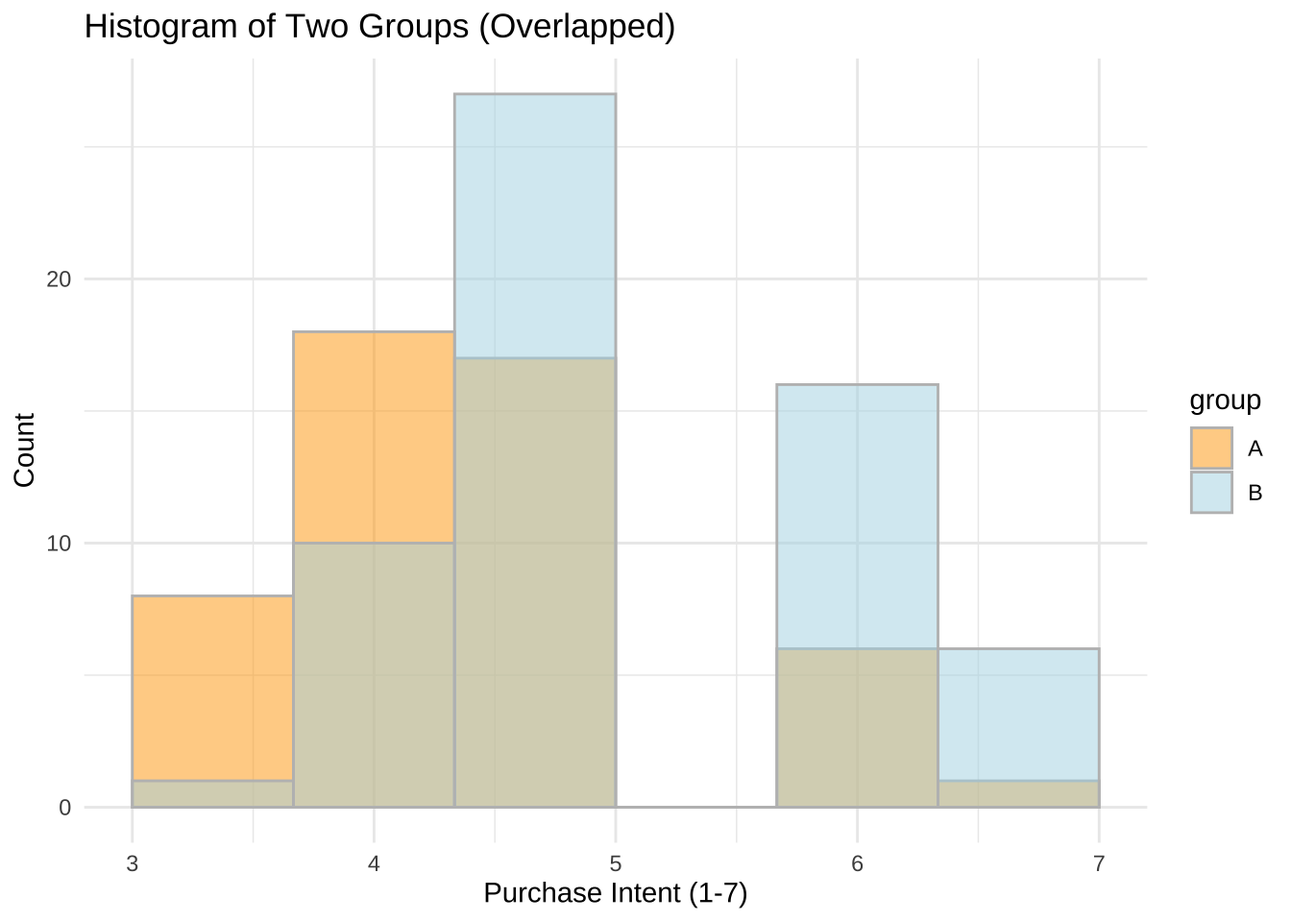
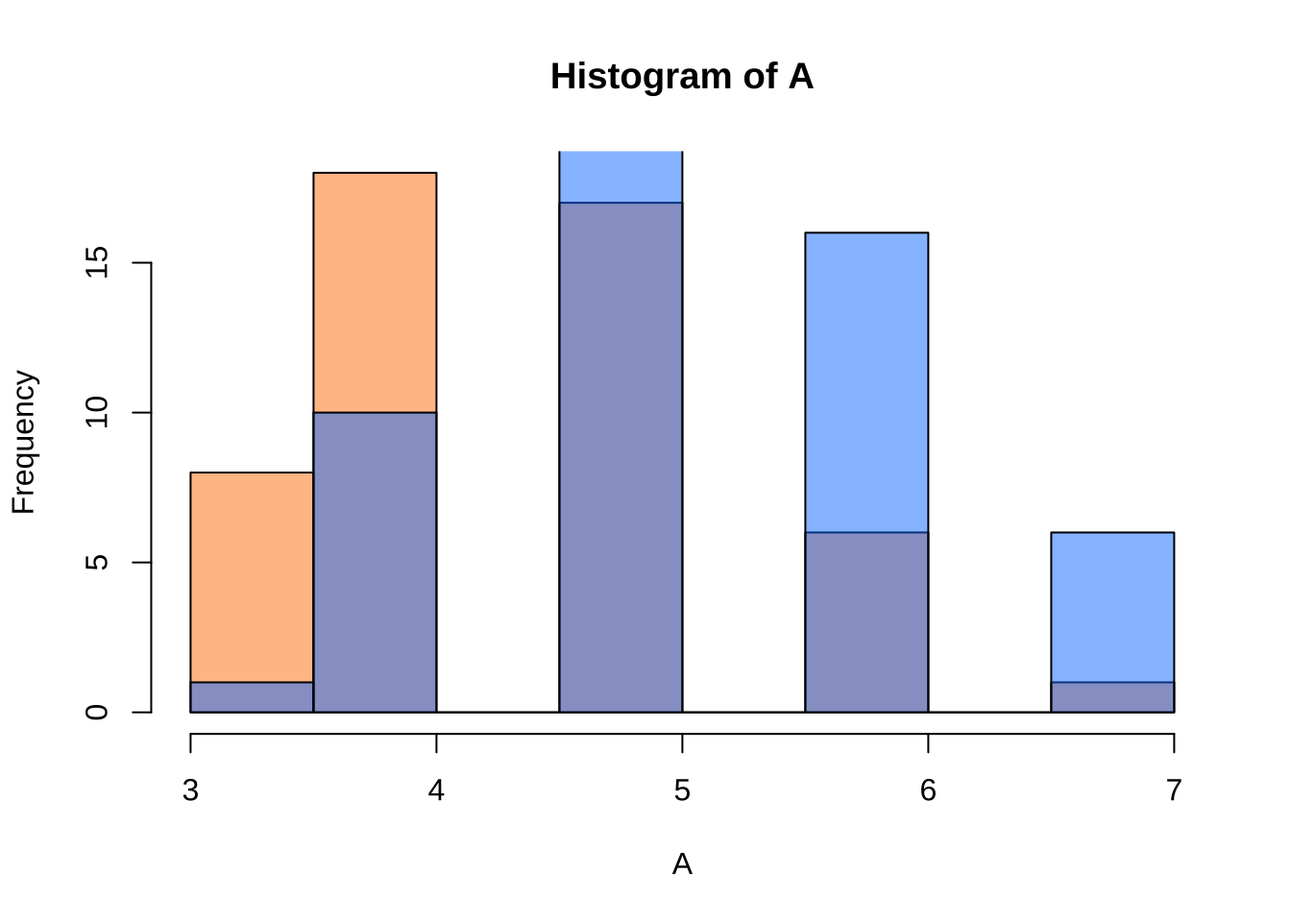
amend 020(rev)

diff --git a/仮説検定.html b/仮説検定.html
@@ -221,7 +221,7 @@ code span.wa { color: #60a0b0; font-weight: bold; font-style: italic; } /* Warni
             <section class="normal" id="section-">
 <div id="仮説検定" class="section level1 hasAnchor" number="3">
 <h1><span class="header-section-number">3</span> 仮説検定<a href="仮説検定.html#仮説検定" class="anchor-section" aria-label="Anchor link to header"></a></h1>
-<p>本章では, 仮説検定の中でも, 実務において, 恐らく最も良く用いると思われる,</p>
+<p>本章では, 仮説検定の中でも, 実務において良く用いられる,</p>
 <ul>
 <li>平均値の差の検定</li>
 <li>独立性の検定</li>
@@ -245,7 +245,7 @@ code span.wa { color: #60a0b0; font-weight: bold; font-style: italic; } /* Warni
 <div id="平均値の差の検定-ペア検定" class="section level3 unnumbered hasAnchor">
 <h3>平均値の差の検定 (ペア検定)<a href="仮説検定.html#平均値の差の検定-ペア検定" class="anchor-section" aria-label="Anchor link to header"></a></h3>
 <p>ペア検定を実施する場合には, <code>t.test()</code>の引数<code>paired</code>を真 (<code>TRUE</code>, または<code>T</code>)
-に設定する. デフォルトは,<code>paired = F</code>である (ペア検定ではない).</p>
+に設定する. デフォルトは,<code>paired = FALSE</code> (<code>F</code>) である (ペア検定ではない).</p>
 <p>ここでは, Rにデフォルトで収録されているデータセット<code>sleep</code>を用いる.</p>
 <div id="データセット-sleep" class="section level4 unnumbered hasAnchor">
 <h4>データセット: sleep<a href="仮説検定.html#データセット-sleep" class="anchor-section" aria-label="Anchor link to header"></a></h4>
@@ -270,8 +270,8 @@ code span.wa { color: #60a0b0; font-weight: bold; font-style: italic; } /* Warni
 <span id="cb140-16"><a href="仮説検定.html#cb140-16" tabindex="-1"></a><span class="co">#&gt; 19   4.6     2  9</span></span>
 <span id="cb140-17"><a href="仮説検定.html#cb140-17" tabindex="-1"></a><span class="co">#&gt; 20   3.4     2 10</span></span></code></pre></div>
 <p>最初に, Rへの指示を簡潔にするために, <code>attach(sleep)</code> を実行する. これにより, <code>sleep</code>内に含まれる変数<code>extra</code>,<code>group</code>,<code>ID</code>については,
-それらが<code>sleep</code>の変数であることをその都度教えてなくても, Rは理解できるようになる.
-(Rの”サーチパス”に載せる, と言う)</p>
+それらが<code>sleep</code>の変数であることをその都度教えてなくても, Rは認識できるようになる
+(Rの“サーチパス”に加わる).</p>
 <div class="sourceCode" id="cb141"><pre class="sourceCode r"><code class="sourceCode r"><span id="cb141-1"><a href="仮説検定.html#cb141-1" tabindex="-1"></a><span class="fu">attach</span>(sleep)</span>
 <span id="cb141-2"><a href="仮説検定.html#cb141-2" tabindex="-1"></a><span class="fu">par</span>(<span class="at">mfrow =</span> <span class="fu">c</span>(<span class="dv">1</span>, <span class="dv">2</span>))</span>
 <span id="cb141-3"><a href="仮説検定.html#cb141-3" tabindex="-1"></a><span class="fu">plot</span>(extra); <span class="fu">hist</span>(extra)</span></code></pre></div>
@@ -338,7 +338,7 @@ code span.wa { color: #60a0b0; font-weight: bold; font-style: italic; } /* Warni
 1標本に対する平均値ゼロのt検定として行う.</p>
 <p>すなわち, 帰無仮説<span class="math inline">\(H_0: \mu_1-\mu_2=0\)</span>に対して, 対立仮説は,</p>
 <ul>
-<li>両側検定: <span class="math inline">\(H_1: \mu_1-\mu_2=0\)</span></li>
+<li>両側検定: <span class="math inline">\(H_1: \mu_1-\mu_2 \neq 0\)</span></li>
 <li>片側 (右側) 検定: <span class="math inline">\(H_1: \mu_1-\mu_2&gt;0\)</span></li>
 <li>片側 (左側) 検定: <span class="math inline">\(H_1: \mu_1-\mu_2&lt;0\)</span></li>
 </ul>
@@ -350,7 +350,7 @@ p値は0.002833となり, 1%有意水準 (<span class="math inline">\(\alpha=0.0
 こととなった.</p>
 <p>一方, 対立仮説として, 右側 <span class="math inline">\(H_1: \mu_1-\mu_2&gt;0\)</span> を採用した場合には,
 標本から計算される平均値の差は正の値となることが期待され
-((<span class="math inline">\(\bar{x}_1-\bar{x}_2&gt;0\)</span>)), これは, データセットsleepから計算された値
+(<span class="math inline">\(\bar{x}_1-\bar{x}_2&gt;0\)</span>), これは, データセットsleepから計算された値
 (<span class="math inline">\(-1.58\)</span>) とは明らかに整合的ではない. このことは, 対応するp値が<span class="math inline">\(0.9986\)</span>と
 1に近く, 帰無仮説を棄却できない大きさとなっていることに表れている.</p>
 <!-- #090225ERROR#t.test(extra ~ group, paired = T) # ペア検定 (両側検定 (デフォルト)) -->
@@ -389,7 +389,9 @@ p値は0.002833となり, 1%有意水準 (<span class="math inline">\(\alpha=0.0
 <span id="cb149-13"><a href="仮説検定.html#cb149-13" tabindex="-1"></a><span class="co">#&gt;           1.125316</span></span>
 <span id="cb149-14"><a href="仮説検定.html#cb149-14" tabindex="-1"></a><span class="co"># ※ 省略されることも多い</span></span></code></pre></div>
 <p>その上で, Welch検定か, プール化された分散推定値を用いるt検定を実行する.</p>
-<div class="sourceCode" id="cb150"><pre class="sourceCode r"><code class="sourceCode r"><span id="cb150-1"><a href="仮説検定.html#cb150-1" tabindex="-1"></a><span class="co"># 等分散の場合 ((Pooled variance使用する) t検定)</span></span>
+<p>上の等分散性検定の結果より, 帰無仮説 (2標本の分散は等しい, <span class="math inline">\(\sigma_1^2=\sigma_2^2\)</span>)
+は棄却されないことから (p値<span class="math inline">\(=0.6606\)</span>), 等分散の場合について実行すれば良い.</p>
+<div class="sourceCode" id="cb150"><pre class="sourceCode r"><code class="sourceCode r"><span id="cb150-1"><a href="仮説検定.html#cb150-1" tabindex="-1"></a><span class="co"># 等分散の場合 (Pooled variance使用するt検定)</span></span>
 <span id="cb150-2"><a href="仮説検定.html#cb150-2" tabindex="-1"></a><span class="fu">t.test</span>(purchase_intent <span class="sc">~</span> group, <span class="at">var.equal =</span> T, <span class="at">data =</span> abtest_df)</span>
 <span id="cb150-3"><a href="仮説検定.html#cb150-3" tabindex="-1"></a><span class="co">#&gt; </span></span>
 <span id="cb150-4"><a href="仮説検定.html#cb150-4" tabindex="-1"></a><span class="co">#&gt;  Two Sample t-test</span></span>
@@ -401,102 +403,121 @@ p値は0.002833となり, 1%有意水準 (<span class="math inline">\(\alpha=0.0
 <span id="cb150-10"><a href="仮説検定.html#cb150-10" tabindex="-1"></a><span class="co">#&gt;  -1.1449141 -0.4284192</span></span>
 <span id="cb150-11"><a href="仮説検定.html#cb150-11" tabindex="-1"></a><span class="co">#&gt; sample estimates:</span></span>
 <span id="cb150-12"><a href="仮説検定.html#cb150-12" tabindex="-1"></a><span class="co">#&gt; mean in group A mean in group B </span></span>
-<span id="cb150-13"><a href="仮説検定.html#cb150-13" tabindex="-1"></a><span class="co">#&gt;        4.480000        5.266667</span></span>
-<span id="cb150-14"><a href="仮説検定.html#cb150-14" tabindex="-1"></a></span>
-<span id="cb150-15"><a href="仮説検定.html#cb150-15" tabindex="-1"></a><span class="co"># 等分散でない場合 (Welch t検定)</span></span>
-<span id="cb150-16"><a href="仮説検定.html#cb150-16" tabindex="-1"></a><span class="fu">t.test</span>(purchase_intent <span class="sc">~</span> group, <span class="at">data =</span> abtest_df)</span>
-<span id="cb150-17"><a href="仮説検定.html#cb150-17" tabindex="-1"></a><span class="co">#&gt; </span></span>
-<span id="cb150-18"><a href="仮説検定.html#cb150-18" tabindex="-1"></a><span class="co">#&gt;  Welch Two Sample t-test</span></span>
-<span id="cb150-19"><a href="仮説検定.html#cb150-19" tabindex="-1"></a><span class="co">#&gt; </span></span>
-<span id="cb150-20"><a href="仮説検定.html#cb150-20" tabindex="-1"></a><span class="co">#&gt; data:  purchase_intent by group</span></span>
-<span id="cb150-21"><a href="仮説検定.html#cb150-21" tabindex="-1"></a><span class="co">#&gt; t = -4.3291, df = 101.99, p-value = 3.505e-05</span></span>
-<span id="cb150-22"><a href="仮説検定.html#cb150-22" tabindex="-1"></a><span class="co">#&gt; alternative hypothesis: true difference in means between group A and group B is not equal to 0</span></span>
-<span id="cb150-23"><a href="仮説検定.html#cb150-23" tabindex="-1"></a><span class="co">#&gt; 95 percent confidence interval:</span></span>
-<span id="cb150-24"><a href="仮説検定.html#cb150-24" tabindex="-1"></a><span class="co">#&gt;  -1.1470981 -0.4262352</span></span>
-<span id="cb150-25"><a href="仮説検定.html#cb150-25" tabindex="-1"></a><span class="co">#&gt; sample estimates:</span></span>
-<span id="cb150-26"><a href="仮説検定.html#cb150-26" tabindex="-1"></a><span class="co">#&gt; mean in group A mean in group B </span></span>
-<span id="cb150-27"><a href="仮説検定.html#cb150-27" tabindex="-1"></a><span class="co">#&gt;        4.480000        5.266667</span></span></code></pre></div>
-<p><strong>自主課題:</strong>
-- Q. 以上の検定結果を解釈しなさい.</p>
+<span id="cb150-13"><a href="仮説検定.html#cb150-13" tabindex="-1"></a><span class="co">#&gt;        4.480000        5.266667</span></span></code></pre></div>
+<p>しかし, 繰り返し仮説検定を行うことによる弊害 (多重検定問題) を回避するため,
+等分散性の検定を行わず, いきなりWelch検定を実行することも多い.</p>
+<div class="sourceCode" id="cb151"><pre class="sourceCode r"><code class="sourceCode r"><span id="cb151-1"><a href="仮説検定.html#cb151-1" tabindex="-1"></a><span class="co"># 等分散でない場合 (Welch t検定)</span></span>
+<span id="cb151-2"><a href="仮説検定.html#cb151-2" tabindex="-1"></a><span class="fu">t.test</span>(purchase_intent <span class="sc">~</span> group, <span class="at">data =</span> abtest_df)</span>
+<span id="cb151-3"><a href="仮説検定.html#cb151-3" tabindex="-1"></a><span class="co">#&gt; </span></span>
+<span id="cb151-4"><a href="仮説検定.html#cb151-4" tabindex="-1"></a><span class="co">#&gt;  Welch Two Sample t-test</span></span>
+<span id="cb151-5"><a href="仮説検定.html#cb151-5" tabindex="-1"></a><span class="co">#&gt; </span></span>
+<span id="cb151-6"><a href="仮説検定.html#cb151-6" tabindex="-1"></a><span class="co">#&gt; data:  purchase_intent by group</span></span>
+<span id="cb151-7"><a href="仮説検定.html#cb151-7" tabindex="-1"></a><span class="co">#&gt; t = -4.3291, df = 101.99, p-value = 3.505e-05</span></span>
+<span id="cb151-8"><a href="仮説検定.html#cb151-8" tabindex="-1"></a><span class="co">#&gt; alternative hypothesis: true difference in means between group A and group B is not equal to 0</span></span>
+<span id="cb151-9"><a href="仮説検定.html#cb151-9" tabindex="-1"></a><span class="co">#&gt; 95 percent confidence interval:</span></span>
+<span id="cb151-10"><a href="仮説検定.html#cb151-10" tabindex="-1"></a><span class="co">#&gt;  -1.1470981 -0.4262352</span></span>
+<span id="cb151-11"><a href="仮説検定.html#cb151-11" tabindex="-1"></a><span class="co">#&gt; sample estimates:</span></span>
+<span id="cb151-12"><a href="仮説検定.html#cb151-12" tabindex="-1"></a><span class="co">#&gt; mean in group A mean in group B </span></span>
+<span id="cb151-13"><a href="仮説検定.html#cb151-13" tabindex="-1"></a><span class="co">#&gt;        4.480000        5.266667</span></span></code></pre></div>
+<p><strong>自主課題:</strong></p>
 <ul>
+<li><p>Q. 以上の検定結果を解釈しなさい.</p></li>
 <li><p>Q. 片側検定にするには? 対立仮説の方向はどちらか?</p></li>
 <li><p>Q. 購入意向 (1-7) は順序尺度では?</p></li>
-<li><p>正規分布を前提にしたt検定を使用して良いか?</p></li>
+<li><p>Q. 正規分布を前提にしたt検定を使用して良いか?</p></li>
 </ul>
 </div>
 <div id="正規性の確認方法" class="section level4 unnumbered hasAnchor">
 <h4>正規性の確認方法<a href="仮説検定.html#正規性の確認方法" class="anchor-section" aria-label="Anchor link to header"></a></h4>
-<div class="sourceCode" id="cb151"><pre class="sourceCode r"><code class="sourceCode r"><span id="cb151-1"><a href="仮説検定.html#cb151-1" tabindex="-1"></a><span class="co"># ヒストグラム作成</span></span>
-<span id="cb151-2"><a href="仮説検定.html#cb151-2" tabindex="-1"></a>A <span class="ot">&lt;-</span> abtest_df[abtest_df<span class="sc">$</span>group <span class="sc">==</span> <span class="st">&quot;A&quot;</span>, <span class="st">&quot;purchase_intent&quot;</span>]</span>
-<span id="cb151-3"><a href="仮説検定.html#cb151-3" tabindex="-1"></a>B <span class="ot">&lt;-</span> abtest_df[abtest_df<span class="sc">$</span>group <span class="sc">==</span> <span class="st">&quot;B&quot;</span>, <span class="st">&quot;purchase_intent&quot;</span>]</span>
-<span id="cb151-4"><a href="仮説検定.html#cb151-4" tabindex="-1"></a><span class="fu">hist</span>(A, <span class="at">col =</span> <span class="fu">rgb</span>(<span class="dv">1</span>, <span class="fl">0.5</span>, <span class="dv">0</span>, <span class="fl">0.5</span>)); <span class="fu">hist</span>(B, <span class="at">col =</span> <span class="fu">rgb</span>(<span class="dv">0</span>, <span class="fl">0.5</span>, <span class="dv">1</span>, <span class="fl">0.5</span>), <span class="at">add =</span> T)</span></code></pre></div>
-<p><img src="020-testing_files/figure-html/unnamed-chunk-10-1.png" width="75%" /></p>
-<div class="sourceCode" id="cb152"><pre class="sourceCode r"><code class="sourceCode r"><span id="cb152-1"><a href="仮説検定.html#cb152-1" tabindex="-1"></a></span>
-<span id="cb152-2"><a href="仮説検定.html#cb152-2" tabindex="-1"></a><span class="co"># 正規性の検定</span></span>
-<span id="cb152-3"><a href="仮説検定.html#cb152-3" tabindex="-1"></a><span class="fu">ks.test</span>(A, <span class="st">&quot;pnorm&quot;</span>); <span class="fu">ks.test</span>(B, <span class="st">&quot;pnorm&quot;</span>)        <span class="co"># コルモゴロフ・スミルノフ (Kolmogorov-Smirnov) 検定</span></span>
-<span id="cb152-4"><a href="仮説検定.html#cb152-4" tabindex="-1"></a><span class="co">#&gt; </span></span>
-<span id="cb152-5"><a href="仮説検定.html#cb152-5" tabindex="-1"></a><span class="co">#&gt;  Asymptotic one-sample Kolmogorov-Smirnov test</span></span>
-<span id="cb152-6"><a href="仮説検定.html#cb152-6" tabindex="-1"></a><span class="co">#&gt; </span></span>
-<span id="cb152-7"><a href="仮説検定.html#cb152-7" tabindex="-1"></a><span class="co">#&gt; data:  A</span></span>
-<span id="cb152-8"><a href="仮説検定.html#cb152-8" tabindex="-1"></a><span class="co">#&gt; D = 0.99865, p-value &lt; 2.2e-16</span></span>
-<span id="cb152-9"><a href="仮説検定.html#cb152-9" tabindex="-1"></a><span class="co">#&gt; alternative hypothesis: two-sided</span></span>
-<span id="cb152-10"><a href="仮説検定.html#cb152-10" tabindex="-1"></a><span class="co">#&gt; </span></span>
-<span id="cb152-11"><a href="仮説検定.html#cb152-11" tabindex="-1"></a><span class="co">#&gt;  Asymptotic one-sample Kolmogorov-Smirnov test</span></span>
-<span id="cb152-12"><a href="仮説検定.html#cb152-12" tabindex="-1"></a><span class="co">#&gt; </span></span>
-<span id="cb152-13"><a href="仮説検定.html#cb152-13" tabindex="-1"></a><span class="co">#&gt; data:  B</span></span>
-<span id="cb152-14"><a href="仮説検定.html#cb152-14" tabindex="-1"></a><span class="co">#&gt; D = 0.99865, p-value &lt; 2.2e-16</span></span>
-<span id="cb152-15"><a href="仮説検定.html#cb152-15" tabindex="-1"></a><span class="co">#&gt; alternative hypothesis: two-sided</span></span>
-<span id="cb152-16"><a href="仮説検定.html#cb152-16" tabindex="-1"></a><span class="fu">shapiro.test</span>(A); <span class="fu">shapiro.test</span>(B)    <span class="co"># シャピロ・ウィルク (Shapiro-Wilk) 検定</span></span>
-<span id="cb152-17"><a href="仮説検定.html#cb152-17" tabindex="-1"></a><span class="co">#&gt; </span></span>
-<span id="cb152-18"><a href="仮説検定.html#cb152-18" tabindex="-1"></a><span class="co">#&gt;  Shapiro-Wilk normality test</span></span>
-<span id="cb152-19"><a href="仮説検定.html#cb152-19" tabindex="-1"></a><span class="co">#&gt; </span></span>
-<span id="cb152-20"><a href="仮説検定.html#cb152-20" tabindex="-1"></a><span class="co">#&gt; data:  A</span></span>
-<span id="cb152-21"><a href="仮説検定.html#cb152-21" tabindex="-1"></a><span class="co">#&gt; W = 0.89953, p-value = 0.0004638</span></span>
-<span id="cb152-22"><a href="仮説検定.html#cb152-22" tabindex="-1"></a><span class="co">#&gt; </span></span>
-<span id="cb152-23"><a href="仮説検定.html#cb152-23" tabindex="-1"></a><span class="co">#&gt;  Shapiro-Wilk normality test</span></span>
-<span id="cb152-24"><a href="仮説検定.html#cb152-24" tabindex="-1"></a><span class="co">#&gt; </span></span>
-<span id="cb152-25"><a href="仮説検定.html#cb152-25" tabindex="-1"></a><span class="co">#&gt; data:  B</span></span>
-<span id="cb152-26"><a href="仮説検定.html#cb152-26" tabindex="-1"></a><span class="co">#&gt; W = 0.89262, p-value = 7.16e-05</span></span>
-<span id="cb152-27"><a href="仮説検定.html#cb152-27" tabindex="-1"></a><span class="fu">qqnorm</span>(A); <span class="fu">qqnorm</span>(B)    <span class="co"># q-qプロット</span></span></code></pre></div>
-<p><img src="020-testing_files/figure-html/unnamed-chunk-10-2.png" width="75%" /><img src="020-testing_files/figure-html/unnamed-chunk-10-3.png" width="75%" /></p>
-<p>なお, 関数<code>ggplot()</code>を使うことで, よりエレガントなプロットを描くことが出来る.</p>
-<div class="sourceCode" id="cb153"><pre class="sourceCode r"><code class="sourceCode r"><span id="cb153-1"><a href="仮説検定.html#cb153-1" tabindex="-1"></a><span class="co"># install.packages(&quot;ggplot2&quot;)  # 必要に応じてインストール</span></span>
-<span id="cb153-2"><a href="仮説検定.html#cb153-2" tabindex="-1"></a><span class="fu">library</span>(ggplot2)</span>
-<span id="cb153-3"><a href="仮説検定.html#cb153-3" tabindex="-1"></a> </span>
-<span id="cb153-4"><a href="仮説検定.html#cb153-4" tabindex="-1"></a><span class="fu">ggplot</span>(abtest_df, <span class="fu">aes</span>(<span class="at">x =</span> purchase_intent, <span class="at">fill =</span> group)) <span class="sc">+</span></span>
-<span id="cb153-5"><a href="仮説検定.html#cb153-5" tabindex="-1"></a>   <span class="fu">geom_histogram</span>(<span class="at">position =</span> <span class="st">&quot;identity&quot;</span>, </span>
-<span id="cb153-6"><a href="仮説検定.html#cb153-6" tabindex="-1"></a>                  <span class="at">alpha =</span> <span class="fl">0.5</span>, </span>
-<span id="cb153-7"><a href="仮説検定.html#cb153-7" tabindex="-1"></a>                  <span class="at">bins =</span> <span class="dv">7</span>,         <span class="co"># ビンの数を適宜指定</span></span>
-<span id="cb153-8"><a href="仮説検定.html#cb153-8" tabindex="-1"></a>                  <span class="at">color =</span> <span class="st">&quot;grey&quot;</span>) <span class="sc">+</span>  <span class="co"># 枠線の色 (任意)</span></span>
-<span id="cb153-9"><a href="仮説検定.html#cb153-9" tabindex="-1"></a>   <span class="fu">scale_fill_manual</span>(<span class="at">values =</span> <span class="fu">c</span>(<span class="st">&quot;A&quot;</span> <span class="ot">=</span> <span class="st">&quot;orange&quot;</span>, <span class="st">&quot;B&quot;</span> <span class="ot">=</span> <span class="st">&quot;lightblue&quot;</span>)) <span class="sc">+</span></span>
-<span id="cb153-10"><a href="仮説検定.html#cb153-10" tabindex="-1"></a>   <span class="fu">labs</span>(<span class="at">title =</span> <span class="st">&quot;Histogram of Two Groups (Overlapped)&quot;</span>,</span>
-<span id="cb153-11"><a href="仮説検定.html#cb153-11" tabindex="-1"></a>        <span class="at">x =</span> <span class="st">&quot;Purchase Intent (1-7)&quot;</span>,</span>
-<span id="cb153-12"><a href="仮説検定.html#cb153-12" tabindex="-1"></a>        <span class="at">y =</span> <span class="st">&quot;Count&quot;</span>) <span class="sc">+</span></span>
-<span id="cb153-13"><a href="仮説検定.html#cb153-13" tabindex="-1"></a>   <span class="fu">theme_minimal</span>()</span></code></pre></div>
+<p>t検定は, 標本を抽出するもととなる母集団の確率分布が
+正規分布であるというのが分布に関する基本的な仮定である.</p>
+<p>したがって, t検定の実行に先立ち, 標本が正規分布に従うか否かを調べ,
+t検定の前提条件が満たされているかどうかを確認することが求められる.</p>
+<p>これは, 標本数が小さい時には特に注意する必要がある.</p>
+<div class="sourceCode" id="cb152"><pre class="sourceCode r"><code class="sourceCode r"><span id="cb152-1"><a href="仮説検定.html#cb152-1" tabindex="-1"></a><span class="co"># ヒストグラム作成</span></span>
+<span id="cb152-2"><a href="仮説検定.html#cb152-2" tabindex="-1"></a>A <span class="ot">&lt;-</span> abtest_df[abtest_df<span class="sc">$</span>group <span class="sc">==</span> <span class="st">&quot;A&quot;</span>, <span class="st">&quot;purchase_intent&quot;</span>]</span>
+<span id="cb152-3"><a href="仮説検定.html#cb152-3" tabindex="-1"></a>B <span class="ot">&lt;-</span> abtest_df[abtest_df<span class="sc">$</span>group <span class="sc">==</span> <span class="st">&quot;B&quot;</span>, <span class="st">&quot;purchase_intent&quot;</span>]</span>
+<span id="cb152-4"><a href="仮説検定.html#cb152-4" tabindex="-1"></a><span class="fu">hist</span>(A, <span class="at">col =</span> <span class="fu">rgb</span>(<span class="dv">1</span>, <span class="fl">0.5</span>, <span class="dv">0</span>, <span class="fl">0.5</span>)); <span class="fu">hist</span>(B, <span class="at">col =</span> <span class="fu">rgb</span>(<span class="dv">0</span>, <span class="fl">0.5</span>, <span class="dv">1</span>, <span class="fl">0.5</span>), <span class="at">add =</span> T)</span></code></pre></div>
 <p><img src="020-testing_files/figure-html/unnamed-chunk-11-1.png" width="75%" /></p>
+<div class="sourceCode" id="cb153"><pre class="sourceCode r"><code class="sourceCode r"><span id="cb153-1"><a href="仮説検定.html#cb153-1" tabindex="-1"></a></span>
+<span id="cb153-2"><a href="仮説検定.html#cb153-2" tabindex="-1"></a><span class="co"># 正規性の検定</span></span>
+<span id="cb153-3"><a href="仮説検定.html#cb153-3" tabindex="-1"></a><span class="fu">ks.test</span>(A, <span class="st">&quot;pnorm&quot;</span>); <span class="fu">ks.test</span>(B, <span class="st">&quot;pnorm&quot;</span>)        <span class="co"># コルモゴロフ・スミルノフ (Kolmogorov-Smirnov) 検定</span></span>
+<span id="cb153-4"><a href="仮説検定.html#cb153-4" tabindex="-1"></a><span class="co">#&gt; </span></span>
+<span id="cb153-5"><a href="仮説検定.html#cb153-5" tabindex="-1"></a><span class="co">#&gt;  Asymptotic one-sample Kolmogorov-Smirnov test</span></span>
+<span id="cb153-6"><a href="仮説検定.html#cb153-6" tabindex="-1"></a><span class="co">#&gt; </span></span>
+<span id="cb153-7"><a href="仮説検定.html#cb153-7" tabindex="-1"></a><span class="co">#&gt; data:  A</span></span>
+<span id="cb153-8"><a href="仮説検定.html#cb153-8" tabindex="-1"></a><span class="co">#&gt; D = 0.99865, p-value &lt; 2.2e-16</span></span>
+<span id="cb153-9"><a href="仮説検定.html#cb153-9" tabindex="-1"></a><span class="co">#&gt; alternative hypothesis: two-sided</span></span>
+<span id="cb153-10"><a href="仮説検定.html#cb153-10" tabindex="-1"></a><span class="co">#&gt; </span></span>
+<span id="cb153-11"><a href="仮説検定.html#cb153-11" tabindex="-1"></a><span class="co">#&gt;  Asymptotic one-sample Kolmogorov-Smirnov test</span></span>
+<span id="cb153-12"><a href="仮説検定.html#cb153-12" tabindex="-1"></a><span class="co">#&gt; </span></span>
+<span id="cb153-13"><a href="仮説検定.html#cb153-13" tabindex="-1"></a><span class="co">#&gt; data:  B</span></span>
+<span id="cb153-14"><a href="仮説検定.html#cb153-14" tabindex="-1"></a><span class="co">#&gt; D = 0.99865, p-value &lt; 2.2e-16</span></span>
+<span id="cb153-15"><a href="仮説検定.html#cb153-15" tabindex="-1"></a><span class="co">#&gt; alternative hypothesis: two-sided</span></span>
+<span id="cb153-16"><a href="仮説検定.html#cb153-16" tabindex="-1"></a><span class="fu">shapiro.test</span>(A); <span class="fu">shapiro.test</span>(B)    <span class="co"># シャピロ・ウィルク (Shapiro-Wilk) 検定</span></span>
+<span id="cb153-17"><a href="仮説検定.html#cb153-17" tabindex="-1"></a><span class="co">#&gt; </span></span>
+<span id="cb153-18"><a href="仮説検定.html#cb153-18" tabindex="-1"></a><span class="co">#&gt;  Shapiro-Wilk normality test</span></span>
+<span id="cb153-19"><a href="仮説検定.html#cb153-19" tabindex="-1"></a><span class="co">#&gt; </span></span>
+<span id="cb153-20"><a href="仮説検定.html#cb153-20" tabindex="-1"></a><span class="co">#&gt; data:  A</span></span>
+<span id="cb153-21"><a href="仮説検定.html#cb153-21" tabindex="-1"></a><span class="co">#&gt; W = 0.89953, p-value = 0.0004638</span></span>
+<span id="cb153-22"><a href="仮説検定.html#cb153-22" tabindex="-1"></a><span class="co">#&gt; </span></span>
+<span id="cb153-23"><a href="仮説検定.html#cb153-23" tabindex="-1"></a><span class="co">#&gt;  Shapiro-Wilk normality test</span></span>
+<span id="cb153-24"><a href="仮説検定.html#cb153-24" tabindex="-1"></a><span class="co">#&gt; </span></span>
+<span id="cb153-25"><a href="仮説検定.html#cb153-25" tabindex="-1"></a><span class="co">#&gt; data:  B</span></span>
+<span id="cb153-26"><a href="仮説検定.html#cb153-26" tabindex="-1"></a><span class="co">#&gt; W = 0.89262, p-value = 7.16e-05</span></span>
+<span id="cb153-27"><a href="仮説検定.html#cb153-27" tabindex="-1"></a><span class="fu">qqnorm</span>(A); <span class="fu">qqnorm</span>(B)    <span class="co"># q-qプロット</span></span></code></pre></div>
+<p><img src="020-testing_files/figure-html/unnamed-chunk-11-2.png" width="75%" /><img src="020-testing_files/figure-html/unnamed-chunk-11-3.png" width="75%" /></p>
+<p>なお, 関数<code>ggplot()</code>を使うことで, よりエレガントなプロットを描くことが出来る.</p>
+<div class="sourceCode" id="cb154"><pre class="sourceCode r"><code class="sourceCode r"><span id="cb154-1"><a href="仮説検定.html#cb154-1" tabindex="-1"></a><span class="co"># install.packages(&quot;ggplot2&quot;)  # 必要に応じてインストール</span></span>
+<span id="cb154-2"><a href="仮説検定.html#cb154-2" tabindex="-1"></a><span class="fu">library</span>(ggplot2)</span>
+<span id="cb154-3"><a href="仮説検定.html#cb154-3" tabindex="-1"></a> </span>
+<span id="cb154-4"><a href="仮説検定.html#cb154-4" tabindex="-1"></a><span class="fu">ggplot</span>(abtest_df, <span class="fu">aes</span>(<span class="at">x =</span> purchase_intent, <span class="at">fill =</span> group)) <span class="sc">+</span></span>
+<span id="cb154-5"><a href="仮説検定.html#cb154-5" tabindex="-1"></a>   <span class="fu">geom_histogram</span>(<span class="at">position =</span> <span class="st">&quot;identity&quot;</span>, </span>
+<span id="cb154-6"><a href="仮説検定.html#cb154-6" tabindex="-1"></a>                  <span class="at">alpha =</span> <span class="fl">0.5</span>, </span>
+<span id="cb154-7"><a href="仮説検定.html#cb154-7" tabindex="-1"></a>                  <span class="at">bins =</span> <span class="dv">7</span>,         <span class="co"># ビンの数を適宜指定</span></span>
+<span id="cb154-8"><a href="仮説検定.html#cb154-8" tabindex="-1"></a>                  <span class="at">color =</span> <span class="st">&quot;grey&quot;</span>) <span class="sc">+</span>  <span class="co"># 枠線の色 (任意)</span></span>
+<span id="cb154-9"><a href="仮説検定.html#cb154-9" tabindex="-1"></a>   <span class="fu">scale_fill_manual</span>(<span class="at">values =</span> <span class="fu">c</span>(<span class="st">&quot;A&quot;</span> <span class="ot">=</span> <span class="st">&quot;orange&quot;</span>, <span class="st">&quot;B&quot;</span> <span class="ot">=</span> <span class="st">&quot;lightblue&quot;</span>)) <span class="sc">+</span></span>
+<span id="cb154-10"><a href="仮説検定.html#cb154-10" tabindex="-1"></a>   <span class="fu">labs</span>(<span class="at">title =</span> <span class="st">&quot;Histogram of Two Groups (Overlapped)&quot;</span>,</span>
+<span id="cb154-11"><a href="仮説検定.html#cb154-11" tabindex="-1"></a>        <span class="at">x =</span> <span class="st">&quot;Purchase Intent (1-7)&quot;</span>,</span>
+<span id="cb154-12"><a href="仮説検定.html#cb154-12" tabindex="-1"></a>        <span class="at">y =</span> <span class="st">&quot;Count&quot;</span>) <span class="sc">+</span></span>
+<span id="cb154-13"><a href="仮説検定.html#cb154-13" tabindex="-1"></a>   <span class="fu">theme_minimal</span>()</span></code></pre></div>
+<p><img src="020-testing_files/figure-html/unnamed-chunk-12-1.png" width="75%" /></p>
 </div>
 </div>
 <div id="平均値の差の検定-ノンパラメトリック検定" class="section level3 unnumbered hasAnchor">
 <h3>平均値の差の検定 (ノンパラメトリック検定)<a href="仮説検定.html#平均値の差の検定-ノンパラメトリック検定" class="anchor-section" aria-label="Anchor link to header"></a></h3>
+<p>上記のように, t検定は標本を抽出するもととなる母集団の確率分布が
+正規分布であるというのが分布に関する基本的な仮定である.</p>
+<p>しかしその一方で, 標本数が十分に大きい時は, 母集団の確率分布が
+正規分布である必要はない.</p>
+<p>それは, 中心極限定理の働きによって, 検定統計量が帰無仮説の下では
+近似的にStudent t分布に従うことが理論的に示されるためである.</p>
+<p>一方, 標本数が大きくない場合には, 母集団の確率分布が正規分布でない場合には,
+t検定の前提条件から乖離する状況となるため, 別の検定法を用いることが適切である.</p>
+<p><strong>ノンパラメトリック検定法</strong>は, 分布形状に関する仮定によらない,
+ロバスト (頑強) な検定方法である.</p>
 <div id="wilcoxonの順位和検定-mannwhitneyのu検定" class="section level4 unnumbered hasAnchor">
 <h4>Wilcoxonの順位和検定 (Mann–WhitneyのU検定)<a href="仮説検定.html#wilcoxonの順位和検定-mannwhitneyのu検定" class="anchor-section" aria-label="Anchor link to header"></a></h4>
-<p>ノンパラメトリック検定の一手法である</p>
+<p>ここでは, 2群の平均値の差に関する
+t検定の代替的手法として, <strong>ウィルコクソン (Wilcoxon) の順位和検定</strong>を紹介する.</p>
 <ul>
 <li>2群の中央値の差を調べる</li>
 <li>外れ値に対して頑強</li>
 </ul>
-<div class="sourceCode" id="cb154"><pre class="sourceCode r"><code class="sourceCode r"><span id="cb154-1"><a href="仮説検定.html#cb154-1" tabindex="-1"></a><span class="fu">wilcox.test</span>(purchase_intent <span class="sc">~</span> group, <span class="at">data =</span> abtest_df)</span>
-<span id="cb154-2"><a href="仮説検定.html#cb154-2" tabindex="-1"></a><span class="co">#&gt; </span></span>
-<span id="cb154-3"><a href="仮説検定.html#cb154-3" tabindex="-1"></a><span class="co">#&gt;  Wilcoxon rank sum test with continuity correction</span></span>
-<span id="cb154-4"><a href="仮説検定.html#cb154-4" tabindex="-1"></a><span class="co">#&gt; </span></span>
-<span id="cb154-5"><a href="仮説検定.html#cb154-5" tabindex="-1"></a><span class="co">#&gt; data:  purchase_intent by group</span></span>
-<span id="cb154-6"><a href="仮説検定.html#cb154-6" tabindex="-1"></a><span class="co">#&gt; W = 861.5, p-value = 5.992e-05</span></span>
-<span id="cb154-7"><a href="仮説検定.html#cb154-7" tabindex="-1"></a><span class="co">#&gt; alternative hypothesis: true location shift is not equal to 0</span></span>
-<span id="cb154-8"><a href="仮説検定.html#cb154-8" tabindex="-1"></a></span>
-<span id="cb154-9"><a href="仮説検定.html#cb154-9" tabindex="-1"></a><span class="co"># A,Bを定義しておいた場合, 以下の実行も可能</span></span>
-<span id="cb154-10"><a href="仮説検定.html#cb154-10" tabindex="-1"></a><span class="co"># wilcox.test(A, B)</span></span></code></pre></div>
-<p><strong>自主課題:</strong>
-- Q. 以上の検定結果を解釈しなさい.</p>
+<div class="sourceCode" id="cb155"><pre class="sourceCode r"><code class="sourceCode r"><span id="cb155-1"><a href="仮説検定.html#cb155-1" tabindex="-1"></a><span class="fu">wilcox.test</span>(purchase_intent <span class="sc">~</span> group, <span class="at">data =</span> abtest_df)</span>
+<span id="cb155-2"><a href="仮説検定.html#cb155-2" tabindex="-1"></a><span class="co">#&gt; </span></span>
+<span id="cb155-3"><a href="仮説検定.html#cb155-3" tabindex="-1"></a><span class="co">#&gt;  Wilcoxon rank sum test with continuity correction</span></span>
+<span id="cb155-4"><a href="仮説検定.html#cb155-4" tabindex="-1"></a><span class="co">#&gt; </span></span>
+<span id="cb155-5"><a href="仮説検定.html#cb155-5" tabindex="-1"></a><span class="co">#&gt; data:  purchase_intent by group</span></span>
+<span id="cb155-6"><a href="仮説検定.html#cb155-6" tabindex="-1"></a><span class="co">#&gt; W = 861.5, p-value = 5.992e-05</span></span>
+<span id="cb155-7"><a href="仮説検定.html#cb155-7" tabindex="-1"></a><span class="co">#&gt; alternative hypothesis: true location shift is not equal to 0</span></span>
+<span id="cb155-8"><a href="仮説検定.html#cb155-8" tabindex="-1"></a></span>
+<span id="cb155-9"><a href="仮説検定.html#cb155-9" tabindex="-1"></a><span class="co"># A,Bを定義しておいた場合, 以下の実行も可能</span></span>
+<span id="cb155-10"><a href="仮説検定.html#cb155-10" tabindex="-1"></a><span class="co"># wilcox.test(A, B)</span></span></code></pre></div>
+<p><strong>自主課題:</strong></p>
+<ul>
+<li>Q. 以上の検定結果を解釈しなさい.</li>
+</ul>
 
 </div>
 </div>

diff --git a/index.html b/index.html
@@ -222,7 +222,7 @@ code span.wa { color: #60a0b0; font-weight: bold; font-style: italic; } /* Warni
 <div id="header">
 <h1 class="title">ビジネス統計</h1>
 <p class="author"><em>林 高樹</em></p>
-<p class="date"><em>2025-09-02 (内容は随時更新されます)</em></p>
+<p class="date"><em>2025-09-03 (内容は随時更新されます)</em></p>
 </div>
 <div id="はじめに" class="section level1 hasAnchor" number="1">
 <h1><span class="header-section-number">1</span> はじめに<a href="index.html#はじめに" class="anchor-section" aria-label="Anchor link to header"></a></h1>
